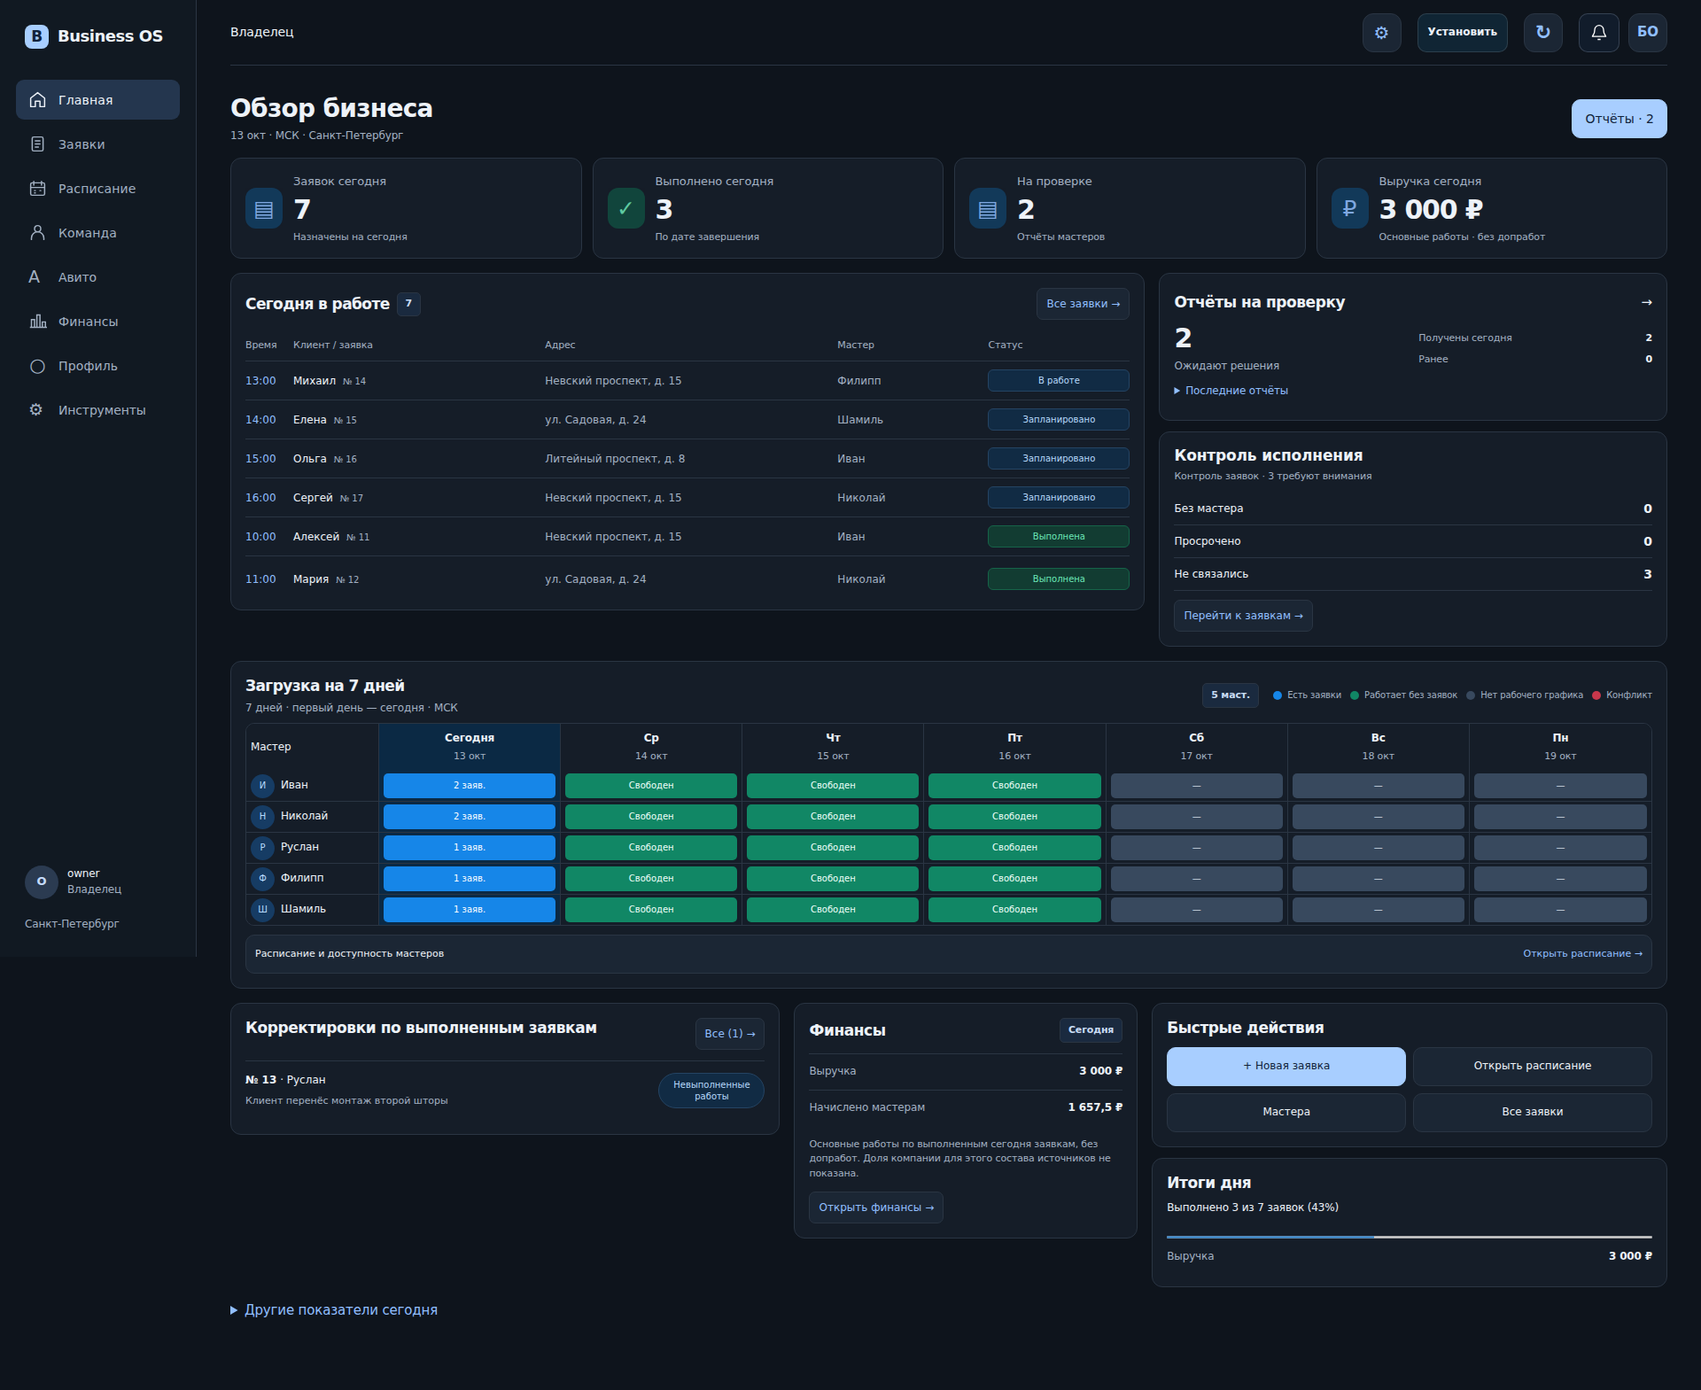
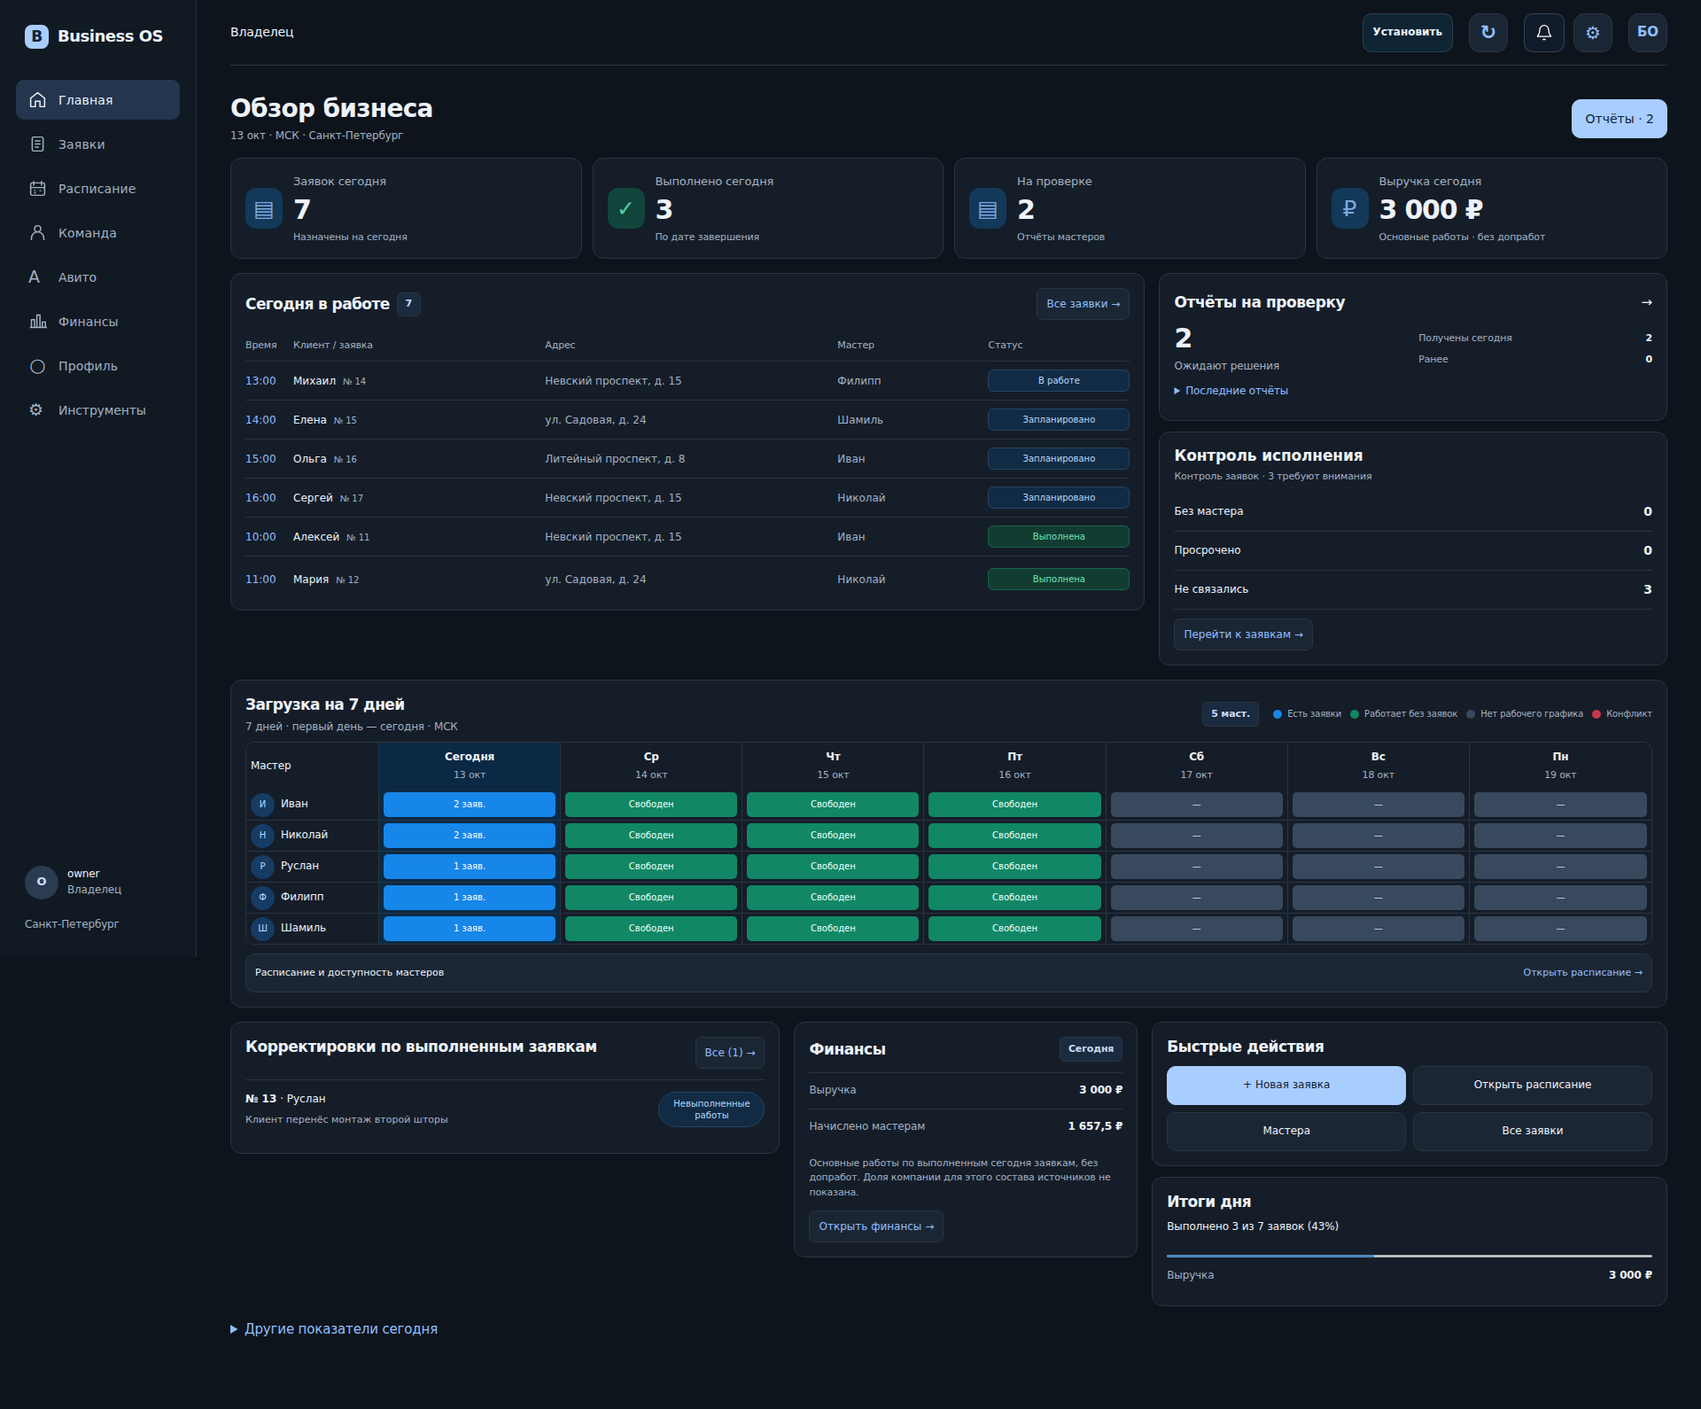
fix(owner): preserve control target size and align UI regressions

diff --git a/build-version.js b/build-version.js
@@ -1,2 +1,2 @@
 // Generated by npm run build. Do not edit.
[2 lines of base64/hex data omitted]

diff --git a/index.html b/index.html
@@ -1,1 +1,1 @@
-<!doctype html><html lang="ru"><head><meta name="bos-build-id" content="a72e322b5885120a8219"><meta charset="UTF-8"><meta name="viewport" content="width=device-width,initial-scale=1,viewport-fit=cover"><meta name="referrer" content="no-referrer"><script id="bos-origin-migration">if(location.origin==='https://zuev1ilya11-afk.github.io'&&(location.pathname==='/business-os-vk/'||location.pathname==='/business-os-vk/index.html'))location.replace('https://139.100.237.167/'+location.search+location.hash);</script><meta name="theme-color" content="#0e141c"><meta name="apple-mobile-web-app-capable" content="yes"><meta name="apple-mobile-web-app-status-bar-style" content="black-translucent"><meta name="apple-mobile-web-app-title" content="Business OS"><title>Домашний мастер</title><link rel="manifest" href="manifest.webmanifest?build=a72e322b5885120a8219"><link rel="icon" href="brand-logo.svg?build=a72e322b5885120a8219" type="image/svg+xml"><link rel="stylesheet" href="styles.css?build=a72e322b5885120a8219"><link rel="stylesheet" href="ui-v2.css?build=a72e322b5885120a8219"><link rel="stylesheet" href="report-review.css?build=a72e322b5885120a8219"><link rel="stylesheet" href="master-simple.css?build=a72e322b5885120a8219"><link rel="stylesheet" href="form-mobile-fix.css?build=a72e322b5885120a8219"><link rel="stylesheet" href="ui-refresh-v1.css?build=a72e322b5885120a8219"><style>.brandWrap{display:flex;align-items:center;gap:10px}.brandLogo{display:flex;align-items:center;justify-content:center;flex:0 0 auto}.brandLogo img{width:46px;height:46px;display:block;object-fit:contain}.brandText{display:flex;flex-direction:column;justify-content:center;min-width:0}.brandText h1{margin:0;line-height:1.05}.brandSub{margin-top:3px}#authGate{position:fixed;inset:0;z-index:999999;display:flex;align-items:center;justify-content:center;padding:20px;background:#08101b;overflow:auto}.authGateCard{width:min(100%,430px);background:#101b2a;border:1px solid rgba(255,255,255,.1);border-radius:20px;padding:24px;box-sizing:border-box;box-shadow:0 20px 60px rgba(0,0,0,.35)}.authGateCard h1{margin:8px 0 10px;font-size:26px}.authGateCard .wide{width:100%;margin-top:10px}.authLogo{font-size:14px;font-weight:700;letter-spacing:.08em;text-transform:uppercase;opacity:.75}.authError{padding:10px 12px;border-radius:12px;background:rgba(255,80,80,.12);overflow-wrap:anywhere}body:not(.bos-auth-ok){overflow:hidden}</style><link rel="stylesheet" href="dark-business-os.css?build=a72e322b5885120a8219"><link rel="stylesheet" href="dispatcher-mobile-touch-v101.css?build=a72e322b5885120a8219"><link rel="stylesheet" href="approved-ui.css?build=a72e322b5885120a8219"><link rel="stylesheet" href="approved-master-ui.css?build=a72e322b5885120a8219"><link rel="stylesheet" href="approved-operations-ui.css?build=a72e322b5885120a8219"></head><body class="bos-approved-ui"><div id="authGate"><div class="authGateCard"><div class="authLogo">Домашний мастер</div><h1>Проверяем вход…</h1><p class="muted">Пожалуйста, подождите.</p></div></div><div id="app"><header><div class="brandWrap"><div class="brandLogo"><img src="brand-logo.svg?build=a72e322b5885120a8219" alt="Логотип Домашний мастер"></div><div class="brandText"><h1>Домашний мастер</h1><div class="brandSub">Сервисная компания</div><div id="roleBadge" class="roleBadge">Владелец</div></div></div><button class="avatar" id="profileBtn" aria-label="Профиль">БО</button></header><main id="content"><section class="hero"><h2>Домашний мастер</h2><p class="muted">Запуск приложения…</p></section></main><nav><button data-page="home" class="active">Главная</button><button data-page="orders">Заявки</button><button data-page="dispatch">График</button><button data-page="team">Команда</button></nav></div><div id="modalRoot"></div><script defer src="build-version.js?build=a72e322b5885120a8219"></script><script defer src="startup-shell.bundle.js?build=a72e322b5885120a8219"></script><script defer src="pwa-register.js?build=a72e322b5885120a8219"></script></body></html>
+<!doctype html><html lang="ru"><head><meta name="bos-build-id" content="bf6e538aaf27012ecd7c"><meta charset="UTF-8"><meta name="viewport" content="width=device-width,initial-scale=1,viewport-fit=cover"><meta name="referrer" content="no-referrer"><script id="bos-origin-migration">if(location.origin==='https://zuev1ilya11-afk.github.io'&&(location.pathname==='/business-os-vk/'||location.pathname==='/business-os-vk/index.html'))location.replace('https://139.100.237.167/'+location.search+location.hash);</script><meta name="theme-color" content="#0e141c"><meta name="apple-mobile-web-app-capable" content="yes"><meta name="apple-mobile-web-app-status-bar-style" content="black-translucent"><meta name="apple-mobile-web-app-title" content="Business OS"><title>Домашний мастер</title><link rel="manifest" href="manifest.webmanifest?build=bf6e538aaf27012ecd7c"><link rel="icon" href="brand-logo.svg?build=bf6e538aaf27012ecd7c" type="image/svg+xml"><link rel="stylesheet" href="styles.css?build=bf6e538aaf27012ecd7c"><link rel="stylesheet" href="ui-v2.css?build=bf6e538aaf27012ecd7c"><link rel="stylesheet" href="report-review.css?build=bf6e538aaf27012ecd7c"><link rel="stylesheet" href="master-simple.css?build=bf6e538aaf27012ecd7c"><link rel="stylesheet" href="form-mobile-fix.css?build=bf6e538aaf27012ecd7c"><link rel="stylesheet" href="ui-refresh-v1.css?build=bf6e538aaf27012ecd7c"><style>.brandWrap{display:flex;align-items:center;gap:10px}.brandLogo{display:flex;align-items:center;justify-content:center;flex:0 0 auto}.brandLogo img{width:46px;height:46px;display:block;object-fit:contain}.brandText{display:flex;flex-direction:column;justify-content:center;min-width:0}.brandText h1{margin:0;line-height:1.05}.brandSub{margin-top:3px}#authGate{position:fixed;inset:0;z-index:999999;display:flex;align-items:center;justify-content:center;padding:20px;background:#08101b;overflow:auto}.authGateCard{width:min(100%,430px);background:#101b2a;border:1px solid rgba(255,255,255,.1);border-radius:20px;padding:24px;box-sizing:border-box;box-shadow:0 20px 60px rgba(0,0,0,.35)}.authGateCard h1{margin:8px 0 10px;font-size:26px}.authGateCard .wide{width:100%;margin-top:10px}.authLogo{font-size:14px;font-weight:700;letter-spacing:.08em;text-transform:uppercase;opacity:.75}.authError{padding:10px 12px;border-radius:12px;background:rgba(255,80,80,.12);overflow-wrap:anywhere}body:not(.bos-auth-ok){overflow:hidden}</style><link rel="stylesheet" href="dark-business-os.css?build=bf6e538aaf27012ecd7c"><link rel="stylesheet" href="dispatcher-mobile-touch-v101.css?build=bf6e538aaf27012ecd7c"><link rel="stylesheet" href="approved-ui.css?build=bf6e538aaf27012ecd7c"><link rel="stylesheet" href="approved-master-ui.css?build=bf6e538aaf27012ecd7c"><link rel="stylesheet" href="approved-operations-ui.css?build=bf6e538aaf27012ecd7c"></head><body class="bos-approved-ui"><div id="authGate"><div class="authGateCard"><div class="authLogo">Домашний мастер</div><h1>Проверяем вход…</h1><p class="muted">Пожалуйста, подождите.</p></div></div><div id="app"><header><div class="brandWrap"><div class="brandLogo"><img src="brand-logo.svg?build=bf6e538aaf27012ecd7c" alt="Логотип Домашний мастер"></div><div class="brandText"><h1>Домашний мастер</h1><div class="brandSub">Сервисная компания</div><div id="roleBadge" class="roleBadge">Владелец</div></div></div><button class="avatar" id="profileBtn" aria-label="Профиль">БО</button></header><main id="content"><section class="hero"><h2>Домашний мастер</h2><p class="muted">Запуск приложения…</p></section></main><nav><button data-page="home" class="active">Главная</button><button data-page="orders">Заявки</button><button data-page="dispatch">График</button><button data-page="team">Команда</button></nav></div><div id="modalRoot"></div><script defer src="build-version.js?build=bf6e538aaf27012ecd7c"></script><script defer src="startup-shell.bundle.js?build=bf6e538aaf27012ecd7c"></script><script defer src="pwa-register.js?build=bf6e538aaf27012ecd7c"></script></body></html>

diff --git a/tests/report-correction-cycle.spec.js b/tests/report-correction-cycle.spec.js
@@ -53,7 +53,7 @@ for(const [role,width] of [['owner',390],['dispatcher',390],['owner',1280]]){
    await upload();
    const firstToken=order.report_upload_token;
    await page.evaluate(async()=>{await reloadData(true);window.BOS_MASTER_ORDER_ACTIONS_V179_REFRESH?.()});
-   if(role==='dispatcher'){await page.evaluate(()=>openBosOpsAttention('report'));await page.locator('[data-ops-attention-order="11"]').getByRole('button',{name:'Проверить отчёт',exact:true}).click();}else await page.locator('.reportReviewCard').filter({hasText:'Невский 1'}).first().click();
+   if(role==='dispatcher'){await page.evaluate(()=>openBosOpsAttention('report'));await page.locator('[data-ops-attention-order="11"]').getByRole('button',{name:'Проверить отчёт',exact:true}).click();}else {await page.locator('.odReportDetails > summary').click();await page.locator('.reportReviewCard').filter({hasText:'Невский 1'}).first().click();}
    await page.locator('#rejectReportBtn').click();
    await expect(page.locator('#reviewMsg')).toContainText('Укажите причину отклонения');
    expect(order.report_review_status).toBe('pending');
@@ -77,7 +77,7 @@ for(const [role,width] of [['owner',390],['dispatcher',390],['owner',1280]]){
    expect(uploads.map(x=>x.kind)).toEqual(['act','photo','act','photo']);
 
    await page.evaluate(async()=>{await reloadData(true);window.BOS_MASTER_ORDER_ACTIONS_V179_REFRESH?.()});
-   if(role==='dispatcher'){await page.evaluate(()=>openBosOpsAttention('report'));await page.locator('[data-ops-attention-order="11"]').getByRole('button',{name:'Проверить отчёт',exact:true}).click();}else await page.locator('.reportReviewCard').filter({hasText:'Невский 1'}).first().click();
+   if(role==='dispatcher'){await page.evaluate(()=>openBosOpsAttention('report'));await page.locator('[data-ops-attention-order="11"]').getByRole('button',{name:'Проверить отчёт',exact:true}).click();}else {await page.locator('.odReportDetails > summary').click();await page.locator('.reportReviewCard').filter({hasText:'Невский 1'}).first().click();}
    await expect(page.locator('#reviewForm')).toHaveAttribute('data-report-token',order.report_upload_token);
    await page.locator('#approveReportBtn').click();
    await expect(page.locator('#reviewForm')).toHaveCount(0);

diff --git a/approved-operations-ui.css b/approved-operations-ui.css
@@ -332,7 +332,7 @@ body.bos-approved-ui .bosPushStates dd{margin:0;color:#edf2f8;text-align:right;f
 .bos-approved-ui #ownerDashboard.odOwnerOverview .odReportDetails summary{cursor:pointer;min-height:32px;align-content:center;color:var(--bos-ui-link);font-size:12px}
 .bos-approved-ui #ownerDashboard.odOwnerOverview .bosManagementAttention .odAttentionTitle{gap:4px;padding-bottom:8px}
 .bos-approved-ui #ownerDashboard.odOwnerOverview .bosManagementAttention .odAttentionTitle b{font-size:17px}
-.bos-approved-ui #ownerDashboard.odOwnerOverview .bosManagementAttention .odAttentionFilters button{min-height:36px;padding:8px 0;font-size:12px}
+.bos-approved-ui #ownerDashboard.odOwnerOverview .bosManagementAttention .odAttentionFilters button{min-height:44px;padding:8px 0;font-size:12px}
 .bos-approved-ui #ownerDashboard.odOwnerOverview .bosManagementAttention .odAttentionFilters b{font-size:14px}
 .bos-approved-ui #ownerDashboard.odOwnerOverview .bosManagementAttention .linkBtn{margin-top:10px}
 .bos-approved-ui #ownerDashboard.odOwnerOverview .odLoad .odHeading{margin-bottom:8px}

diff --git a/tests/order-control-section.spec.js b/tests/order-control-section.spec.js
@@ -17,9 +17,10 @@ test('home has only a compact unique-order indicator and opens the Orders contro
   await page.setViewportSize({width,height:900});
   await expect(summary).toBeVisible();
   expect((await summary.boundingBox()).height).toBeLessThan(340);
-  const metrics=await page.locator('#ownerDashboard>.dashMetrics').boundingBox(),load=await page.locator('#ownerDashboard .odMain>.odLoad').boundingBox();
+  const metrics=await page.locator('#ownerDashboard>.dashMetrics').boundingBox(),load=await page.locator('#ownerDashboard>.odLoad').boundingBox();
   expect(metrics.y).toBeLessThan(load.y);
-  if(width>=1024)expect((await page.locator('.bosManagementAttention').boundingBox()).y).toBeCloseTo(load.y,0);
+  const attention=await page.locator('.bosManagementAttention').boundingBox();
+  expect(attention.y+attention.height).toBeLessThanOrEqual(load.y);
   expect(await page.evaluate(()=>document.documentElement.scrollWidth<=innerWidth+1)).toBe(true);
   await page.screenshot({path:info.outputPath(`control-home-${width}.png`)});
  }

diff --git a/tests/mobile-auth-fallback.spec.js b/tests/mobile-auth-fallback.spec.js
@@ -14,7 +14,7 @@ test('mobile VK signed launch opens app and can create an order',async({page})=>
   await page.route('**/api/proxy/order-meta-api',async route=>route.fulfill({status:200,contentType:'application/json',body:JSON.stringify({ok:true,order:{}})}));
   await page.goto('/?force_vk_auth=1&vk_app_id=54758847&vk_user_id=123456789&vk_language=ru&sign=signed_test_value',{waitUntil:'domcontentloaded'});
   await expect.poll(()=>sessionCalls,{timeout:15000}).toBe(1);
-  await expect(page.getByText('Загруженность мастеров')).toBeVisible();
+  await expect(page.getByRole('heading',{name:'Обзор бизнеса',exact:true})).toBeVisible();
   await page.locator('nav button[data-page="orders"]').click();
   await page.getByRole('button',{name:/Новая/}).click();
   const form=page.locator('#orderForm');

diff --git a/tests/smoke.spec.js b/tests/smoke.spec.js
@@ -61,8 +61,9 @@ test('launch smoke: Mini App loads, data renders, actions and report review work
   await expect(page.locator('#authGate')).toBeHidden();
   await expect(page.getByRole('heading',{name:'Обзор бизнеса'}).first()).toBeVisible();
   await expect(page.getByText('VK MINI APP')).toHaveCount(0);
-  await expect(page.getByText('Загруженность мастеров')).toBeVisible();
+  await expect(page.getByRole('heading',{name:'Загрузка на 7 дней',exact:true})).toBeVisible();
   await expect(page.getByRole('heading',{name:'Отчёты на проверку'})).toBeVisible();
+  await page.locator('.odReportDetails > summary').click();
   const reportCard=page.locator('.reportReviewCard').filter({hasText:'REPORT-1 · Монтаж'});
   await expect(reportCard).toBeVisible();
 

diff --git a/tests/staff-admin.spec.js b/tests/staff-admin.spec.js
@@ -39,7 +39,7 @@ test('owner can set employee credentials and restore disabled employee',async({p
   });
 
   await page.goto('/',{waitUntil:'domcontentloaded'});
-  await expect(page.getByText('Загруженность мастеров')).toBeVisible();
+  await expect(page.getByRole('heading',{name:'Обзор бизнеса',exact:true})).toBeVisible();
   await page.locator('nav button[data-page="team"]').click();
   await page.getByRole('button',{name:'Логины и пароли'}).click();
   const modal=page.locator('#modalRoot');

diff --git a/tests/mobile-auth-launch-recovery.spec.js b/tests/mobile-auth-launch-recovery.spec.js
@@ -35,5 +35,5 @@ test('mobile VK auth can read signed launch params from VK Bridge once',async({p
   await expect.poll(()=>bootstrap,{timeout:15000}).toBeTruthy();
   expect(sessionRequestBody.launch_params).toContain('vk_user_id=123456789');
   expect(sessionRequestBody.access_token).toBeUndefined();
-  await expect(page.getByText('Загруженность мастеров')).toBeVisible();
+  await expect(page.getByRole('heading',{name:'Обзор бизнеса',exact:true})).toBeVisible();
 });

diff --git a/tests/simple-desktop-auth.spec.js b/tests/simple-desktop-auth.spec.js
@@ -25,5 +25,5 @@ test('desktop password login creates BOS session and opens app',async({page})=>{
   await expect.poll(()=>loginCalls).toBe(1);
   await expect.poll(()=>authenticatedBootstrapCalls).toBeGreaterThan(0);
   await expect(page.locator('#app')).toBeVisible();
-  await expect(page.getByText('Загруженность мастеров')).toBeVisible();
+  await expect(page.getByRole('heading',{name:'Обзор бизнеса',exact:true})).toBeVisible();
 });

diff --git a/sw.js b/sw.js
@@ -1,4 +1,4 @@
-const BUILD_ID='a72e322b5885120a8219';
+const BUILD_ID='bf6e538aaf27012ecd7c';
 importScripts('./build-version.js?build='+BUILD_ID);
 if(self.BOS_BUILD.id!==BUILD_ID)throw new Error('Mixed deployment: build manifest mismatch');
 const PREFIX='business-os-build-';

diff --git a/docs/approved-ui/owner-overview-2026-10-13/README.md b/docs/approved-ui/owner-overview-2026-10-13/README.md
@@ -19,7 +19,7 @@ Other existing indicators remain available in a disclosure at the bottom. Recent
 - Empty data, conflicts, stored zero payout, 25 masters, archive link and Moscow midnight tested.
 - Separate scoped review found an overlapping empty-report label when an archive exists. A failing visual geometry regression reproduced it, the CSS selector was corrected, and the test now passes. No other blocking finding.
 
-No lint script is defined in this repository. No broad audit or full unrelated suite was run.
+No lint script is defined in this repository. The first full GitHub CI run (38440899530) passed all build/server stages and exposed nine browser failures: stale owner-home labels/structure, report shortcuts now inside a disclosure, and three desktop control buttons below the existing 44px minimum. Test navigation/assertions were aligned with the approved layout; the desktop buttons were restored to 44px. All nine failures plus six related layout/responsive scenarios passed locally after this fix (15 tests, zero retries/skips). Screenshots were refreshed from that run. No auth or report-processing logic changed. Full CI reruns on the updated PR.
 
 ## Comparison with the approved image
 
@@ -29,4 +29,4 @@ Screenshots use synthetic test data and include exact viewport captures and full
 
 ## Release boundary
 
-No merge into main and no Russian production deployment. Stop at Preview for the owner's visual approval.
+Preview was approved and upload to the feature branch was authorized. PR #287 targets main; merge and Russian production deployment remain outside this approval.
